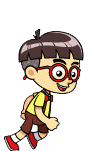
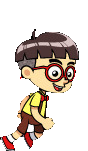
update 2
feito antes de cmer a pizza entao acho q foi bem ne.  Pelo menos o bixo ja pula e tal

Changed region(s): [[0.0, 0.1854, 0.9545, 1.0]]

diff --git a/joguinho/menino.java b/joguinho/menino.java
@@ -8,6 +8,36 @@ import greenfoot.*;  // (World, Actor, GreenfootImage, Greenfoot and MouseInfo)
  */
 public class menino extends Actor
 {
+     GreenfootImage[] myImage = new GreenfootImage[11];
+     GreenfootImage[] myImage2 = new GreenfootImage[5];
+     GreenfootImage[] jump = new GreenfootImage[6];
+     boolean left = false, right = false;
+        
+        public menino(){
+         
+        myImage[0] = new GreenfootImage("menino1.png");
+        myImage[1] = new GreenfootImage("menino2.png");
+        myImage[2] = new GreenfootImage("menino3.png");
+        myImage[3] = new GreenfootImage("menino4.png");
+        myImage[4] = new GreenfootImage("menino5.png");
+        myImage[5] = new GreenfootImage("menino6.png");
+        myImage[6] = new GreenfootImage("menino7.png");
+        myImage[7] = new GreenfootImage("menino8.png");
+        myImage[8] = new GreenfootImage("menino9.png");
+        myImage[9] = new GreenfootImage("menino10.png");
+        myImage[10] = new GreenfootImage("menino11.png");
+        myImage2[0] = new GreenfootImage("menino3m.png");
+        myImage2[1] = new GreenfootImage("menino5m.png");
+        myImage2[2] = new GreenfootImage("menino1m.png");
+        jump[0] = new GreenfootImage("menino9.png");
+        jump[1] = new GreenfootImage("menino10.png");
+        jump[2] = new GreenfootImage("menino11.png");
+        jump[3] = new GreenfootImage("menino9m.png");
+        jump[4] = new GreenfootImage("menino10m.png");
+        jump[5] = new GreenfootImage("menino11m.png");
+        
+        
+        }
     
     /**
      * Act - do whatever the menino wants to do. This method is called whenever
@@ -15,14 +45,67 @@ public class menino extends Actor
      */
     public void act() 
     {
-        GreenfootImage myImage;
+       runRight();
+       runLeft();
+       jump();
+       
+    }
     
-        if(Greenfoot.isKeyDown("right")){
-          myImage = new GreenfootImage("menino5.png");
-          setLocation(getX()+1,getY());
-          this.setImage(myImage);
-          myImage = new GreenfootImage("menino4.png");
-          this.setImage(myImage);
+    public void runRight(){
+     if(Greenfoot.isKeyDown("right")){
+          Greenfoot.delay(5);
+          this.setImage(myImage[2]);
+          setLocation(getX()+20,getY());
+          Greenfoot.delay(5);
+          this.setImage(myImage[4]);
+          Greenfoot.delay(5);
+          this.setImage(myImage[0]);
+          right = true;
         }
-    }    
+    
+    }
+    
+    public void runLeft(){
+    if(Greenfoot.isKeyDown("left")){
+          Greenfoot.delay(5);
+          this.setImage(myImage2[0]);
+          setLocation(getX()-20,getY());
+          Greenfoot.delay(5);
+          this.setImage(myImage2[1]);
+          Greenfoot.delay(5);
+          this.setImage(myImage2[2]);
+          left = true;
+        }
+    }
+    
+    public void jump(){
+   if(Greenfoot.isKeyDown("up")){
+    if(left){
+          Greenfoot.delay(5);
+          this.setImage(jump[3]);
+          setLocation(getX(),getY()-60);
+          Greenfoot.delay(5);
+          setLocation(getX(),getY()+30);
+          this.setImage(jump[4]);
+          Greenfoot.delay(5);
+          setLocation(getX(),getY()+30);
+          this.setImage(jump[5]);
+    left= false;
+    }
+    if(right){
+        Greenfoot.delay(5);
+          this.setImage(jump[0]);
+          setLocation(getX(),getY()-60);
+          Greenfoot.delay(5);
+          setLocation(getX(),getY()+30);
+          this.setImage(jump[1]);
+          Greenfoot.delay(5);
+          setLocation(getX(),getY()+30);
+          this.setImage(jump[2]);
+
+          right=false;
+    }
+}
+    }
+    
 }
